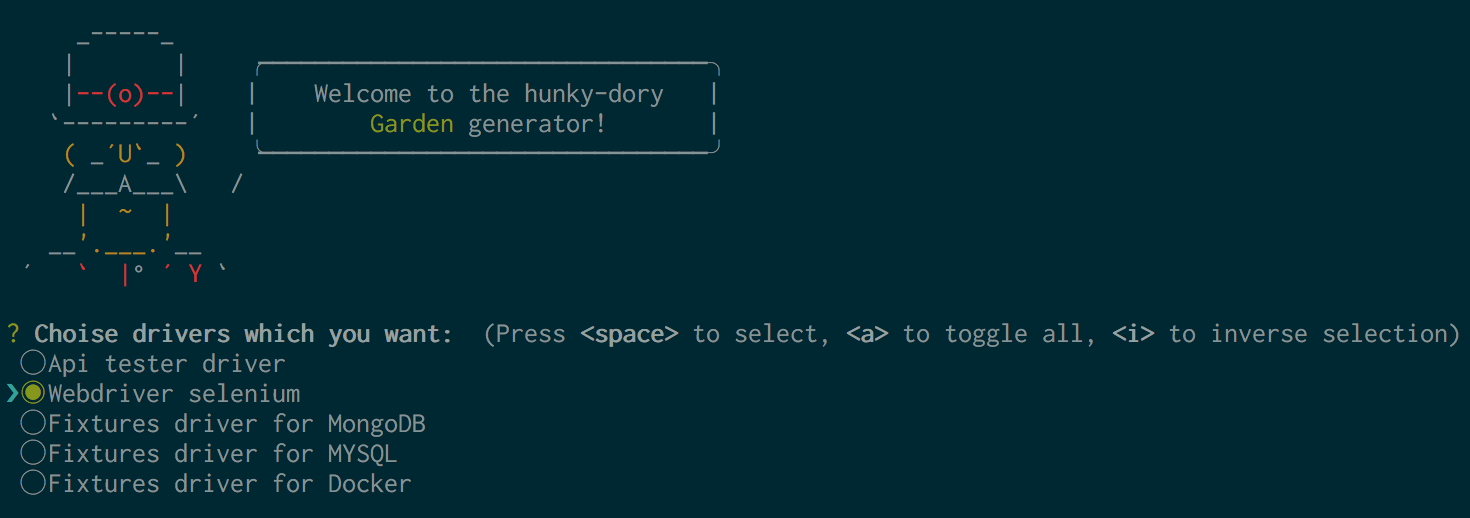
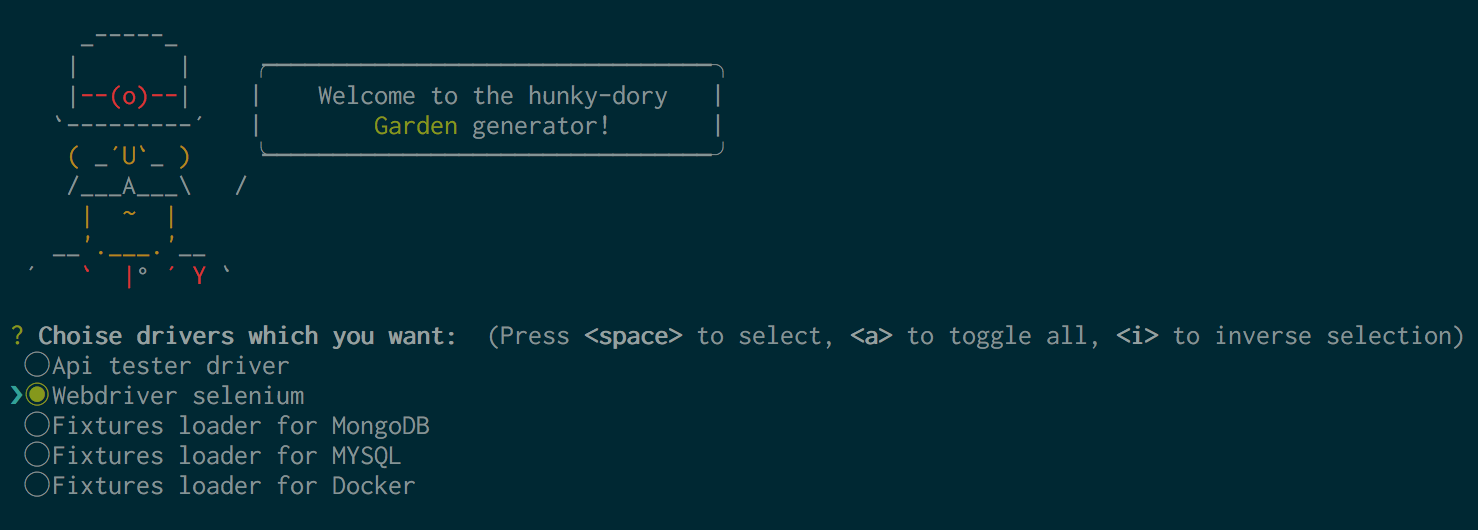
Update README.md Prettified output of generated code. Fixed bug in hooks Changed hints text. Updated unit tests

diff --git a/generators/app/index.js b/generators/app/index.js
@@ -17,13 +17,6 @@ module.exports = Generator.extend({
             {maxLength: 30}
         ));
 
-        if (false === this._isExistsPackageJSON()) {
-            this.log(yosay(
-                chalk.red('File package.json not found in your project. Please create it before using generator.')
-            ));
-            process.exit(1);
-        }
-
         driverPrompts.push({
             type: 'checkbox',
             name: 'drivers',
@@ -42,17 +35,17 @@ module.exports = Generator.extend({
                 },
                 {
                     key: 'fixture_mongo',
-                    name: 'Fixtures driver for MongoDB',
+                    name: 'Fixtures loader for MongoDB',
                     value: 'fixture_mongo',
                 },
                 {
                     key: 'fixture_mysql',
-                    name: 'Fixtures driver for MYSQL',
+                    name: 'Fixtures loader for MYSQL',
                     value: 'fixture_mysql',
                 },
                 {
                     key: 'fixture_docker',
-                    name: 'Fixtures driver for Docker',
+                    name: 'Fixtures loader for Docker',
                     value: 'fixture_docker',
                 },
             ],
@@ -82,7 +75,7 @@ module.exports = Generator.extend({
                 additionalPrompts.push({
                     type: 'confirm',
                     name: 'webdriver_docker_file_init',
-                    message: 'Do you whant also install docker-compose.yml with selenium configuration for Webdriver ?'
+                    message: 'Do you want also install docker-compose.yml with selenium configuration for Webdriver ?'
                 });
             }
 
@@ -99,6 +92,10 @@ module.exports = Generator.extend({
      * Where you write the generator specific files
      */
     writing: function () {
+        if (false === this._isExistsPackageJSON()) {
+            this._packageJSONInit();
+        }
+
         if (this.webdriverInit) {
             this._webdriverFilesInit();
         }
@@ -163,7 +160,7 @@ module.exports = Generator.extend({
      */
     end: function () {
         // Show user hints about all checked drivers
-        this.log(yosay(chalk.red(this._generateHintsText()), {maxLength: 65}));
+        this.log(yosay(chalk.red(this._generateHintsText()), {maxLength: 70}));
     },
 
     _isExistsPackageJSON: function () {
@@ -175,6 +172,16 @@ module.exports = Generator.extend({
      */
     _gardenPackageInit: function () {
         this.npmInstall(['plus.garden@github:dsazz/plus.garden'], { 'save': true });
+    },
+
+    /**
+     * Method for initializing package.json
+     */
+    _packageJSONInit: function () {
+        this.fs.copy(
+            this.templatePath('_package.json'),
+            this.destinationPath('package.json')
+        );
     },
 
     /**
@@ -393,7 +400,7 @@ module.exports = Generator.extend({
      * @returns {String}
      */
     _getWebdriverHintText: function () {
-        return 'If you whant to use Webdriver don\'t forget also install webdriver-manager (npm install -g webdriver-manager)!';
+        return 'If you want to use Webdriver don\'t forget to install and run Selenium server! Read the guide of installing Selenium\n(https://github.com/Dsazz/plus.garden.webdriver/blob/master/docs/selenium-installation.md)';
     },
 
     /**
@@ -401,7 +408,7 @@ module.exports = Generator.extend({
      * @returns {String}
      */
     _getFixturesDockerHintText: function () {
-        return 'Don\'t forget install docker (https://www.docker.com/) and docker-compose (https://docs.docker.com/compose/) for using docker fixtures provider!';
+        return 'Don\'t forget to install docker (https://www.docker.com/) and docker-compose (https://docs.docker.com/compose/) for using docker fixtures provider!';
     },
 
     /**

diff --git a/test/app.js b/test/app.js
@@ -29,12 +29,6 @@ describe('generator-garden:app', function () {
             /* Change project root path to test dir */
             this.app.destinationRoot(testProjectRoot);
 
-            /* create dummy package.json for working generator */
-            fs.copySync(
-                this.app.templatePath('_package.json'),
-                this.app.destinationPath('package.json')
-            );
-
             done();
         }.bind(this));
     });
@@ -45,9 +39,29 @@ describe('generator-garden:app', function () {
         done();
     });
 
-    it('creates test package.json', function (done) {
-        assert.file([this.app.destinationPath('package.json')]);
-        done();
+    it('creates default package.json if it not exists', function (done) {
+        helpers.mockPrompt(this.app, {
+            drivers: ['webdriver']
+        });
+        this.app.run(function () {
+            assert.file(['package.json']);
+            assert.JSONFileContent(
+                this.app.destinationPath('package.json'),
+                {
+                    "name": "generator-garden",
+                    "version": "0.1.0",
+                    "description": "Test package.json",
+                    "author": {
+                        "name": "Garden User",
+                        "email": "garden@awesome.com",
+                        "url": ""
+                    },
+                    "license": "MIT"
+                }
+            );
+
+            done();
+        }.bind(this));
     });
 
     it('should add garden package and files', function (done) {
@@ -313,7 +327,7 @@ describe('generator-garden:app', function () {
             /** File hooks.js should not contain hooks related to fixtures Mongo */
             assert.fileContent(
                 this.app.destinationPath('features/support/hooks.js'),
-                /Before\(\{tags\: \"\@fixtures\.drop\"\}, function \(scenarioResult, callback\) \{/
+                /Before\(\{tags\: \"\@fixtures\.drop\"\}, function \(callback\) \{/
             );
 
             done();

diff --git a/generators/app/templates/container_tpl.js b/generators/app/templates/container_tpl.js
@@ -7,22 +7,13 @@
 
  module.exports = function (container) {
     <% if (includeWebdriver) { %>
-    container.register('Webdriver', require('plus.garden.webdriver'));
-    <% } %>
-
+    container.register('Webdriver', require('plus.garden.webdriver'));<% } %>
     <% if (includeApiTester) { %>
-    container.register('ApiModule', require('plus.garden.api'));
-    <% } %>
-
+    container.register('ApiModule', require('plus.garden.api'));<% } %>
     <% if (includeFixturesMongo) { %>
-    container.register('MongoFixtureLoaderModule', require('plus.garden.fixtures-mongo'));
-    <% } %>
-
+    container.register('MongoFixtureLoaderModule', require('plus.garden.fixtures-mongo'));<% } %>
     <% if (includeFixturesMysql) { %>
-    container.register('MysqlFixtureLoaderModule', require('plus.garden.fixtures-mysql'));
-    <% } %>
-
+    container.register('MysqlFixtureLoaderModule', require('plus.garden.fixtures-mysql'));<% } %>
     <% if (includeFixturesDocker) { %>
-    container.register('DockerComposeFixturesModule', require('plus.garden.fixtures.docker-compose'));
-    <% } %>
+    container.register('DockerComposeFixturesModule', require('plus.garden.fixtures.docker-compose'));<% } %>
 }

diff --git a/generators/app/templates/features/support/hooks_tpl.js b/generators/app/templates/features/support/hooks_tpl.js
@@ -7,22 +7,19 @@ defineSupportCode(function({After, Before}) {
 
     After("@webdriver.quit", function (scenarioResult, callback) {
         this.browserService.after(callback);
-    });
-    <% } %>
-
+    });<% } %>
     <% if (includeFixturesMongo) { %>
-    Before({tags: "@fixtures.drop"}, function (scenarioResult, callback) {
-        this.garden.wait.launchFiber(function (scenarioResult, callback) {
+    Before({tags: "@fixtures.drop"}, function (callback) {
+        this.garden.wait.launchFiber(function (callback) {
             this.garden.get('FixtureLoader').drop();
             callback();
         }.bind(this));
     });
 
-    Before({tags: "@fixtures.load"}, function (scenarioResult, callback) {
-        this.garden.wait.launchFiber(function (scenarioResult, callback) {
+    Before({tags: "@fixtures.load"}, function (callback) {
+        this.garden.wait.launchFiber(function (callback) {
             this.garden.get('FixtureLoader').reload();
             callback();
         }.bind(this));
-    });
-    <% } %>
+    });<% } %>
 });

diff --git a/generators/app/templates/features/support/world_tpl.js b/generators/app/templates/features/support/world_tpl.js
@@ -13,18 +13,14 @@ function World() {
         this.browserService = browserService;
         this.driver = browserService.driver;
         this.browser = browserService.browser;
-    }.bind(this));
-    <% } %>
-
+    }.bind(this));<% } %>
     <% if (includeApiTester) { %>
-    this.api = garden.get('ApiTester');
-    <% } %>
+    this.api = garden.get('ApiTester');<% } %>
 };
 
 defineSupportCode(function({Given, Then, setWorldConstructor, setDefaultTimeout}) {
     setWorldConstructor(World);
     <% if (includeWebdriver) { %>
-    setDefaultTimeout(config.get('webdriver:waitTimeout'));
-    <% } %>
+    setDefaultTimeout(config.get('webdriver:waitTimeout'));<% } %>
 });
 

diff --git a/README.md b/README.md
@@ -1,13 +1,14 @@
 # generator-garden [![NPM version][npm-image]][npm-url] [![Build Status][travis-image]][travis-url] [![Dependency Status][daviddm-image]][daviddm-url]
 > Generator for plus.garden
 
+![alt tag](https://raw.githubusercontent.com/Dsazz/generator-garden/master/title.png)
+
 ## Installation
 
 First, install [Yeoman](http://yeoman.io) and generator-garden using [npm](https://www.npmjs.com/) (we assume you have pre-installed [node.js](https://nodejs.org/)).
 
 ```bash
-npm install -g yo
-npm install -g generator-garden
+npm install -g yo generator-garden
 ```
 
 Then generate your new project:
@@ -16,11 +17,22 @@ Then generate your new project:
 yo garden
 ```
 
+## Usage
+
+At the beginning of generate garden environment you should choose modules which you want using. All list of modules below:
+
+* [Api Tester](https://github.com/linkshare/plus.garden.api) `testing APIs of web services`
+* [Webdriver] (https://github.com/Dsazz/plus.garden.webdriver) `interaction with the different browsers`
+* [fixtures-mongo](https://github.com/linkshare/plus.garden.fixtures-mongo) `mongo fixtures loader`
+* [fixtures-mysql](https://github.com/linkshare/plus.garden.fixtures-mysql) `mysql fixtures loader`
+* [fixtures-docker-compose](https://github.com/slavahatnuke/plus.garden.fixtures.docker-compose) `docker fixtures / any services loader`
+
+## Dependencies
+
+To find out all the dependencies that you will need, please see the corresponding sections of each selected module.
+
 ## Getting To Know Yeoman
 
- * Yeoman has a heart of gold.
- * Yeoman is a person with feelings and opinions, but is very easy to work with.
- * Yeoman can be too opinionated at times but is easily convinced not to be.
  * Feel free to [learn more about Yeoman](http://yeoman.io/).
 
 ## License
